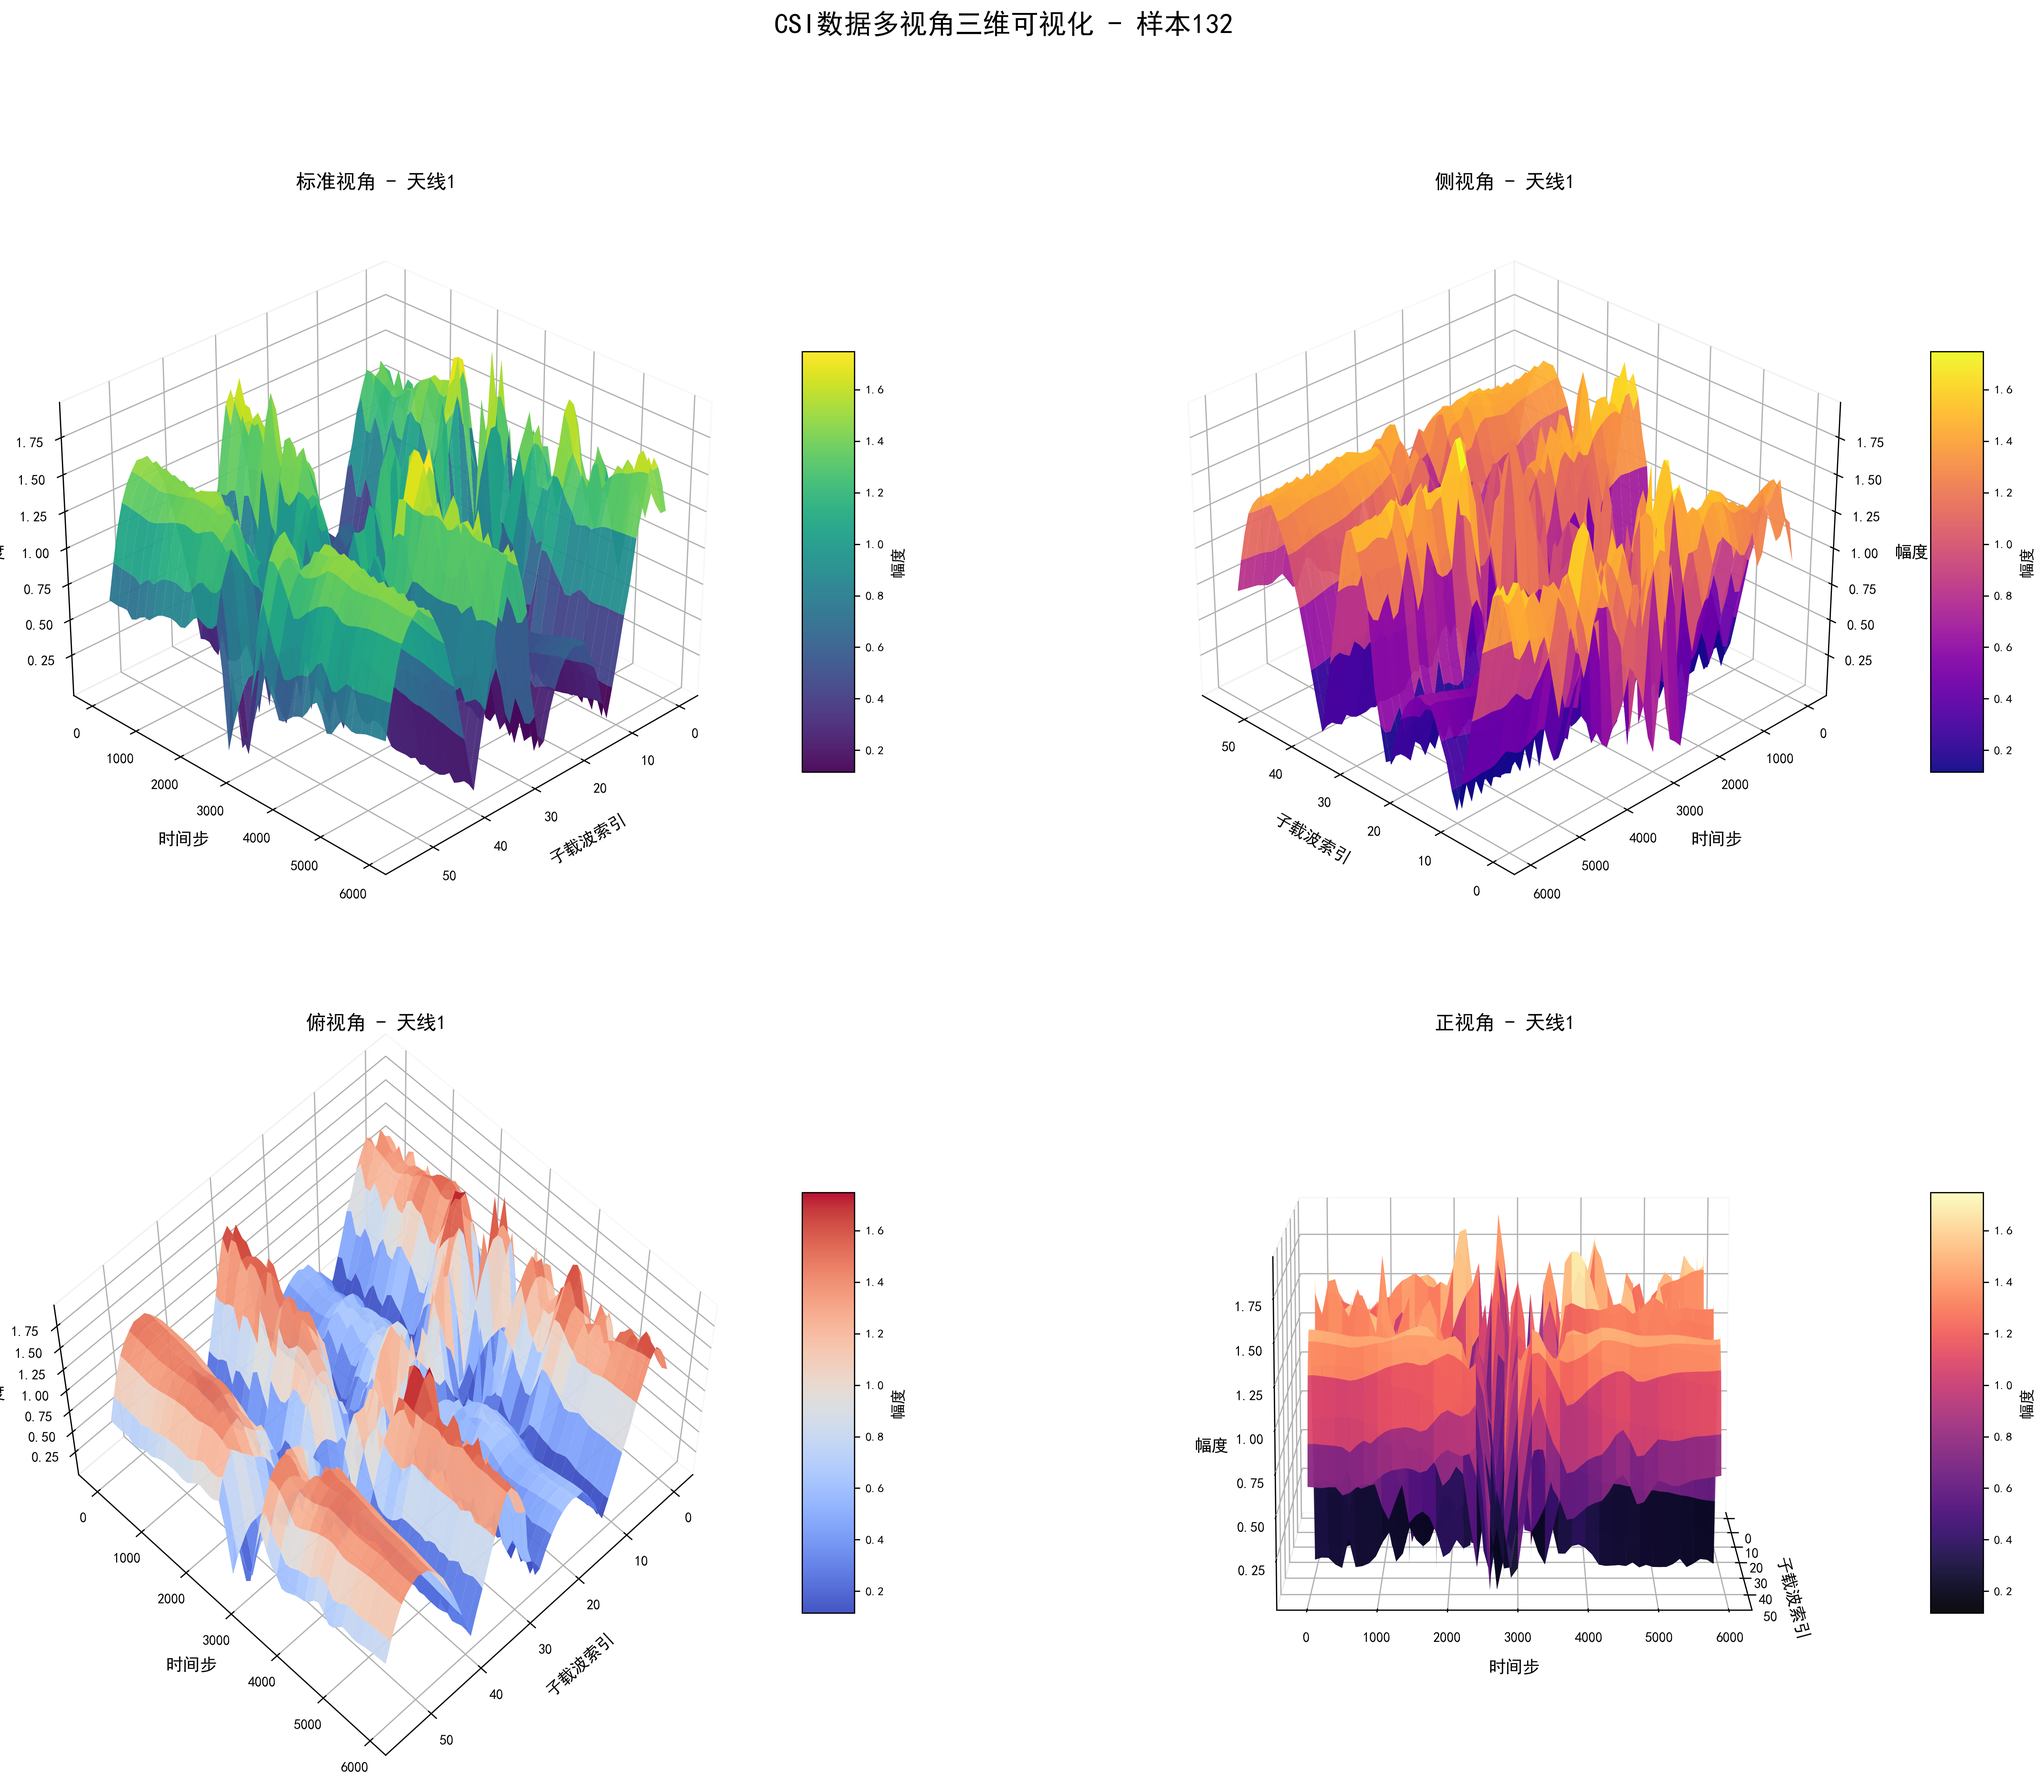
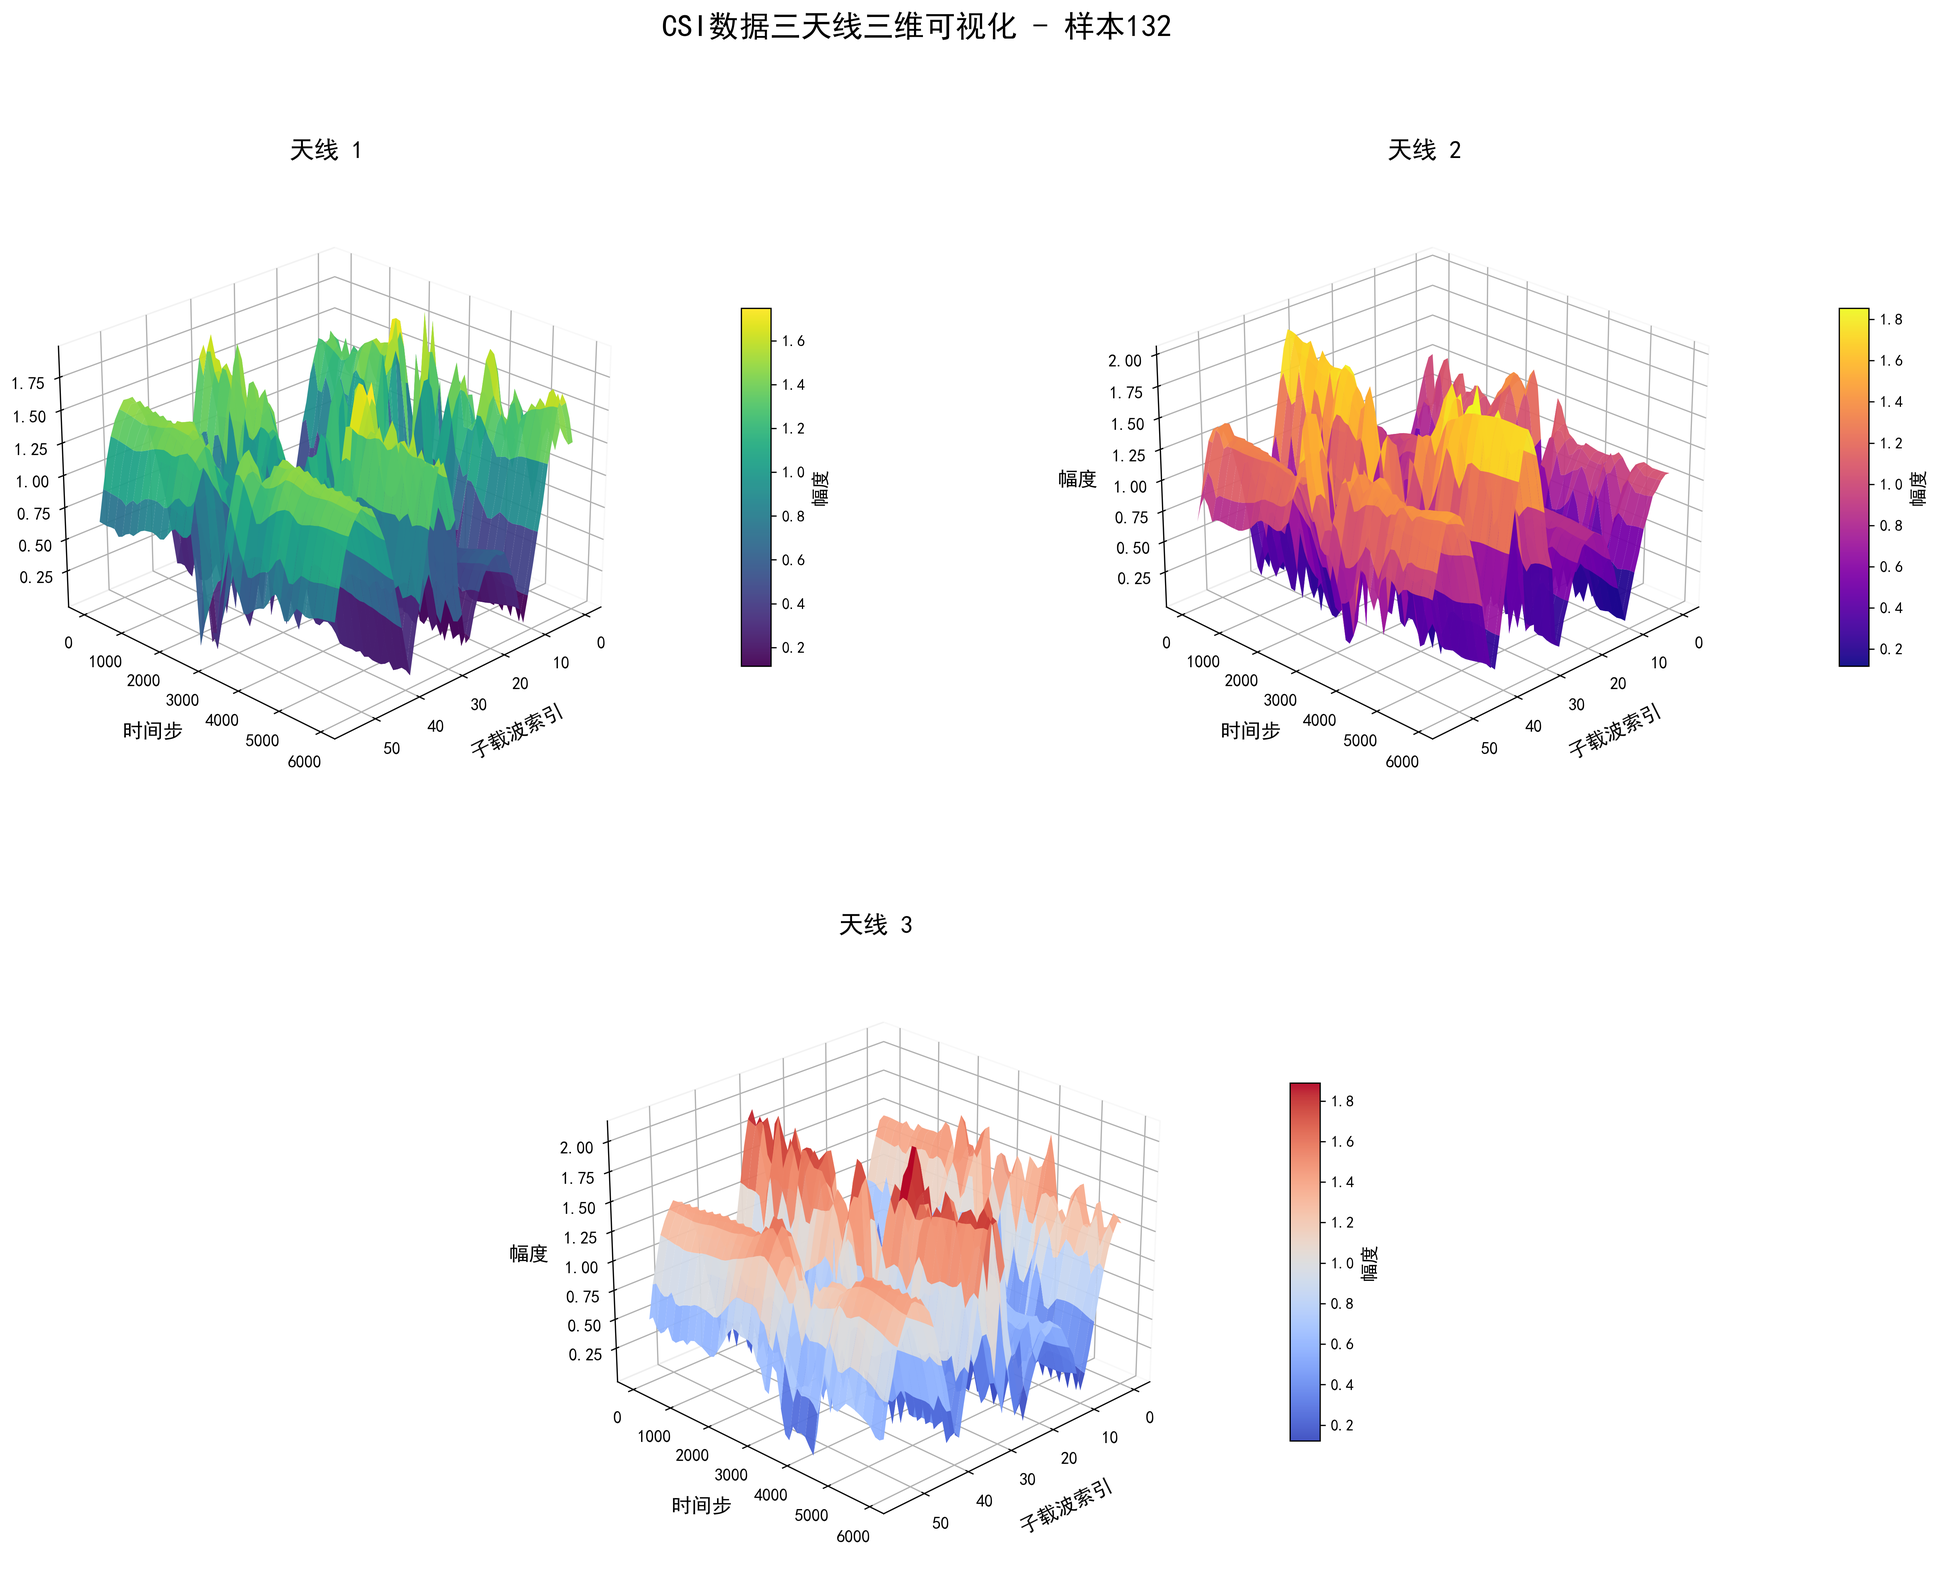
预处理 优化

diff --git a/PreProcess/CSIProcess1.py b/PreProcess/CSIProcess1.py
@@ -5,6 +5,7 @@ from matplotlib import font_manager
 import matplotlib as mpl
 from scipy import signal
 from mpl_toolkits.mplot3d import Axes3D
+import matplotlib.gridspec as gridspec
 
 # 设置中文字体支持 - 更直接有效的方式
 plt.rcParams['axes.unicode_minus'] = False  # 解决负号 '-' 显示为方块的问题
@@ -47,7 +48,7 @@ zh_font = create_zh_font(12)
 print(f"已配置中文字体，默认大小为12")
 
 
-def plot_csi_amplitude(data_path='../RawData/source_env0_env1_data.pt', sample_index=56, #132
+def plot_csi_amplitude(data_path='../RawData/source_env0_env1_data.pt', sample_index=132, #132
                        save_path='./preprocess/sample_amplitude_plot.png'):
     """
     绘制CSI数据的幅度图
@@ -104,7 +105,7 @@ def plot_csi_amplitude(data_path='../RawData/source_env0_env1_data.pt', sample_i
     print(f"图像已保存到: {save_path}")
 
 
-def plot_csi_time_frequency(data_path='../RawData/source_env0_env1_data.pt', sample_index=56,
+def plot_csi_time_frequency(data_path='../RawData/source_env0_env1_data.pt', sample_index=132,
                             save_path='./preprocess/sample_time_frequency_plot.png'):
     """
     绘制CSI数据的时频图（使用STFT短时傅里叶变换）
@@ -449,15 +450,14 @@ def plot_extended_csi_amplitude_with_noise(data_path='../RawData/source_env0_env
 
 
 def plot_csi_multiple_3d_views(data_path='../RawData/source_env0_env1_data.pt', sample_index=132,
-                              antenna_index=0, save_path='./preprocess/sample_3d_multiple_views.png'):
+                              save_path='./preprocess/sample_3d_multiple_views.png'):
     """
-    绘制CSI数据的多视角三维可视化
-    从不同角度展示数据的三维结构（子载波×时间×幅度）
+    绘制CSI数据的三个天线三维可视化
+    展示三个天线的三维数据结构（子载波×时间×幅度）
     
     参数:
     data_path (str): CSI数据文件路径
     sample_index (int): 要绘制的样本索引
-    antenna_index (int): 选择的天线索引 (0, 1, 2)
     save_path (str): 图像保存路径
     """
     # 加载数据
@@ -475,38 +475,41 @@ def plot_csi_multiple_3d_views(data_path='../RawData/source_env0_env1_data.pt', 
     num_antennas = amplitude_data.shape[1]     # 3
     time_steps = amplitude_data.shape[2]       # 6000
     
-    # 选择一个天线的数据
-    antenna_data = amplitude_data[:, antenna_index, :]  # 形状: [56, 6000]
-    
     # 降采样时间维度以优化可视化
     time_downsample = 100
-    downsampled_data = antenna_data[:, ::time_downsample]  # 形状: [56, 60]
     
     # 创建网格坐标
     subcarrier_coords = np.arange(num_subcarriers)
     time_coords = np.arange(0, time_steps, time_downsample)
     Time, Subcarrier = np.meshgrid(time_coords, subcarrier_coords)
     
-    # 创建包含多个子图的图形
-    fig = plt.figure(figsize=(24, 18), facecolor='white')
+    # 创建包含3个子图的图形（3个天线）- 第一排天线1和2，第二排天线3居中
+    fig = plt.figure(figsize=(24, 16), facecolor='white')
     
-    # 定义不同的视角和配色方案
-    views = [
-        {'elev': 30, 'azim': 45, 'title': '标准视角', 'cmap': 'viridis'},
-        {'elev': 30, 'azim': 135, 'title': '侧视角', 'cmap': 'plasma'},
-        {'elev': 60, 'azim': 45, 'title': '俯视角', 'cmap': 'coolwarm'},
-        {'elev': 10, 'azim': 0, 'title': '正视角', 'cmap': 'magma'}
+    # 使用GridSpec实现灵活布局
+    gs = gridspec.GridSpec(2, 4, figure=fig, hspace=0.3, wspace=0.3)
+    
+    # 定义三个天线的配置：天线3在第二排居中
+    antenna_configs = [
+        {'cmap': 'viridis', 'title': '天线 1', 'grid': gs[0, 0:2]},  # 第一排左半部分
+        {'cmap': 'plasma', 'title': '天线 2', 'grid': gs[0, 2:4]},   # 第一排右半部分
+        {'cmap': 'coolwarm', 'title': '天线 3', 'grid': gs[1, 1:3]} # 第二排中间位置
     ]
     
-    for i, view_params in enumerate(views):
-        ax = fig.add_subplot(2, 2, i+1, projection='3d')
+    # 为每个天线绘制3D图
+    for antenna_idx in range(num_antennas):
+        ax = fig.add_subplot(antenna_configs[antenna_idx]['grid'], projection='3d')
+        
+        # 获取当前天线的数据
+        antenna_data = amplitude_data[:, antenna_idx, :]  # 形状: [56, 6000]
+        downsampled_data = antenna_data[:, ::time_downsample]  # 形状: [56, 60]
         
         # 绘制3D表面图
         surf = ax.plot_surface(
             Subcarrier, 
             Time, 
             downsampled_data.numpy(),
-            cmap=view_params['cmap'],
+            cmap=antenna_configs[antenna_idx]['cmap'],
             edgecolor='none',
             alpha=0.95,
             linewidth=0,
@@ -515,21 +518,21 @@ def plot_csi_multiple_3d_views(data_path='../RawData/source_env0_env1_data.pt', 
         )
         
         # 添加颜色条
-        cbar = fig.colorbar(surf, ax=ax, shrink=0.6, aspect=8, pad=0.08)
-        cbar.set_label('幅度', fontproperties=create_zh_font(10), fontsize=10)
-        cbar.ax.tick_params(labelsize=8)
+        cbar = fig.colorbar(surf, ax=ax, shrink=0.6, aspect=12, pad=0.12)
+        cbar.set_label('幅度', fontproperties=create_zh_font(12), fontsize=12)
+        cbar.ax.tick_params(labelsize=10)
         
         # 设置坐标轴标签
-        ax.set_xlabel('子载波索引', fontsize=11, fontproperties=create_zh_font(11), labelpad=8)
-        ax.set_ylabel('时间步', fontsize=11, fontproperties=create_zh_font(11), labelpad=8)
-        ax.set_zlabel('幅度', fontsize=11, fontproperties=create_zh_font(11), labelpad=8)
+        ax.set_xlabel('子载波索引', fontsize=13, fontproperties=create_zh_font(13), labelpad=10)
+        ax.set_ylabel('时间步', fontsize=13, fontproperties=create_zh_font(13), labelpad=10)
+        ax.set_zlabel('幅度', fontsize=13, fontproperties=create_zh_font(13), labelpad=10)
         
         # 设置标题
-        ax.set_title(f"{view_params['title']} - 天线{antenna_index+1}", 
-                    fontsize=13, fontproperties=create_zh_font(13), pad=15)
+        ax.set_title(antenna_configs[antenna_idx]['title'], 
+                    fontsize=16, fontproperties=create_zh_font(16), pad=20, fontweight='bold')
         
-        # 设置视角
-        ax.view_init(elev=view_params['elev'], azim=view_params['azim'])
+        # 设置统一的视角
+        ax.view_init(elev=25, azim=45)
         
         # 优化网格和背景
         ax.grid(True, alpha=0.3, linestyle='--', linewidth=0.5)
@@ -538,25 +541,26 @@ def plot_csi_multiple_3d_views(data_path='../RawData/source_env0_env1_data.pt', 
         ax.zaxis.pane.fill = False
         
         # 设置刻度字体
-        ax.tick_params(axis='both', which='major', labelsize=9)
+        ax.tick_params(axis='both', which='major', labelsize=11)
         for label in ax.get_xticklabels() + ax.get_yticklabels() + ax.get_zticklabels():
-            label.set_fontproperties(create_zh_font(9))
+            label.set_fontproperties(create_zh_font(11))
     
     # 添加总标题
-    fig.suptitle(f'CSI数据多视角三维可视化 - 样本{sample_index}', 
-                fontsize=18, fontproperties=create_zh_font(18), y=0.98)
+    fig.suptitle(f'CSI数据三天线三维可视化 - 样本{sample_index}', 
+                fontsize=20, fontproperties=create_zh_font(20), y=0.98)
     
-    plt.tight_layout(rect=[0, 0, 1, 0.97])
+    plt.tight_layout(rect=[0, 0, 1, 0.96])
     
     # 保存图像
     plt.savefig(save_path, dpi=300, bbox_inches='tight',
                 facecolor='white', edgecolor='none')
     
     plt.close()
-    print(f"多视角3D可视化图像已保存到: {save_path}")
+    print(f"三天线3D可视化图像已保存到: {save_path}")
 
 
 if __name__ == "__main__":
+
     # 调用加噪版本的函数(原始采集数据)
     plot_extended_csi_amplitude_with_noise()
 
